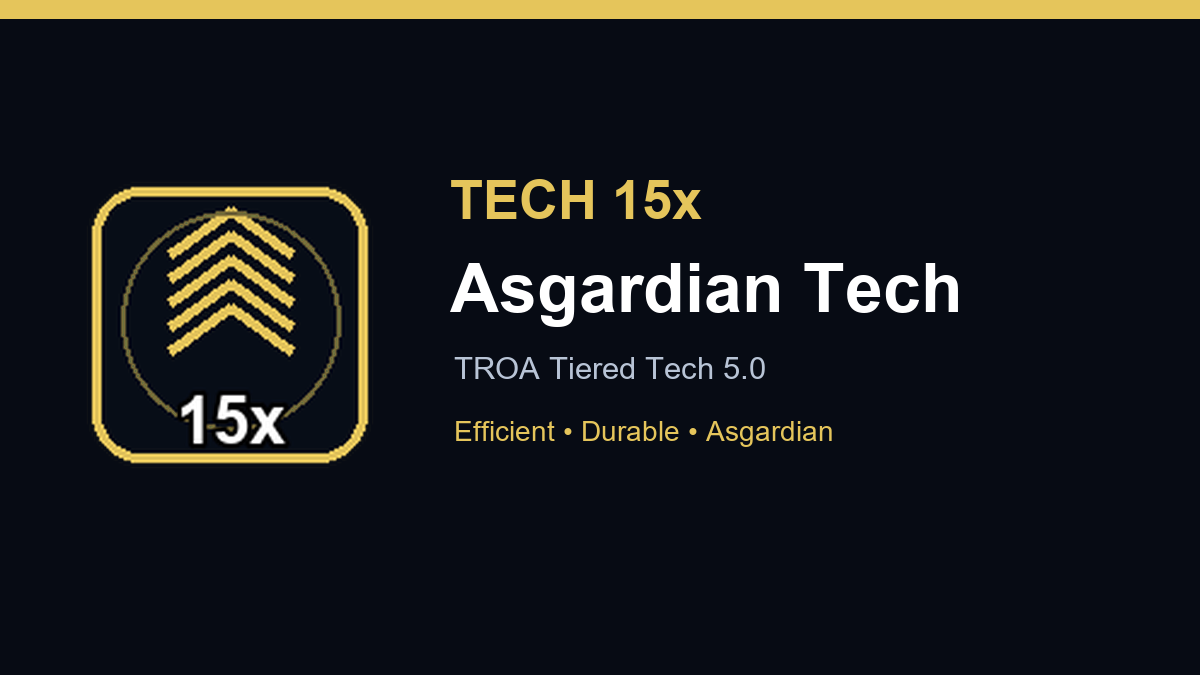
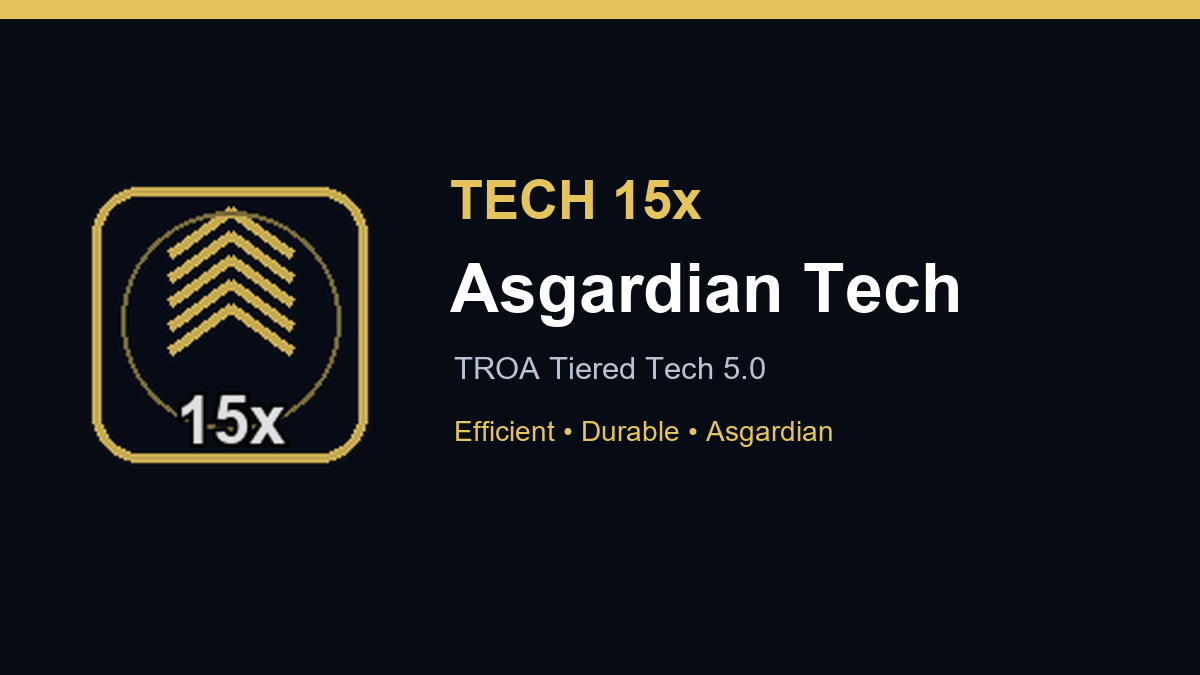
Document expanded tier coverage and updated artwork

Changed region(s): [[0.0925, 0.28, 0.3083, 0.6844], [0.0617, 0.3111, 0.0925, 0.6533]]

diff --git a/README.md b/README.md
@@ -2,7 +2,7 @@
 
 ![TROA Tiered Tech progression](docs/images/tier-progression.png)
 
-TROA Tiered Tech 5.0 is under development for Space Engineers. The planned progression expands eligible functional blocks and light/heavy armor from Enhanced 3x through the new Asgardian 15x and Odin 18x tiers.
+TROA Tiered Tech 5.0 is under development for Space Engineers. The planned progression expands buildable ship, rover, and base blocks—plus character weapons and tools—from Enhanced 3x through the new Asgardian 15x and Odin 18x tiers.
 
 ## Important development notice
 
@@ -24,22 +24,32 @@ This public repository contains player-facing documentation, approved PNG artwor
 | 15x | Asgardian | Efficient endgame technology |
 | 18x | Odin | Final maximum-output tier |
 
-Functional blocks receive fixed 3x protection. Armor protection scales with its active tier from 3x to 18x.
+The current private development catalog covers 1,536 buildable base blocks and generates 9,216 active block variants across the six tiers. Non-armor blocks receive fixed 3x protection. Armor protection scales with its active tier from 3x to 18x. Character weapons and tools also receive tier-specific upgrade paths.
 
 ## Menu organization
 
 ![TROA Tiered Tech menu family](docs/images/menu-preview.png)
 
-The G-menu uses an expandable `TROA Tiered Tech` heading that matches the built-in DLC layout. It contains Armour, Weapons & Tools, Power, Production, Logistics, Propulsion, Control & AI, and Utility subcategories.
+The G-menu uses an expandable `TROA Tiered Tech` heading that matches the built-in expandable category layout. Its block families are followed by dedicated Character Tools and Character Weapons entries.
 
-- TROA Tiered Tech — All
-- TROA Tiered Tech — Armor
-- TROA Tiered Tech — Power
-- TROA Tiered Tech — Production
-- TROA Tiered Tech — Logistics
-- TROA Tiered Tech — Propulsion
-- TROA Tiered Tech — Weapons & Tools
-- TROA Tiered Tech — Control & AI
-- TROA Tiered Tech — Utility
+- Armour
+- Automation
+- Control
+- Decorative
+- Logistics
+- Mechanical
+- Power
+- Production
+- Propulsion
+- Prototech
+- Structure
+- Tools
+- Utility
+- Weapons
+- Windows
+- Character Tools
+- Character Weapons
+
+Tier artwork uses a more transparent badge overlay so the original block or item image remains easy to recognize.
 
 See the [roadmap](ROADMAP.md), [tier reference](docs/TIERS.md), and [compatibility notes](docs/COMPATIBILITY.md) for more information.

diff --git a/CHANGELOG.md b/CHANGELOG.md
@@ -5,11 +5,13 @@
 ### In development
 
 - Expanded active progression: Enhanced 3x, Proficient 6x, Elite 9x, Legendary 12x, Asgardian 15x, and Odin 18x.
-- Coverage for eligible functional block families and the current light/heavy armor catalog.
+- Coverage for 1,536 buildable ship, rover, and base blocks, producing 9,216 active tier variants.
+- Tiered upgrade paths for character weapons and character tools.
 - Tier-scaled armor protection from 3x through 18x.
-- Fixed 3x protection for tiered functional blocks.
-- One expandable TROA G-menu heading with eight populated block-family subcategories.
-- New tier badges, cards, and progression artwork.
+- Fixed 3x protection for all tiered non-armor blocks.
+- One expandable TROA G-menu heading with 15 populated block-family subcategories and two character-item subcategories.
+- More transparent tier badges that preserve visibility of the original item artwork.
+- Updated tier cards and progression artwork.
 - Saved-world compatibility strategy for legacy 2x, 4x, 8x, and 16x identities.
 
 ### Fixed during development
